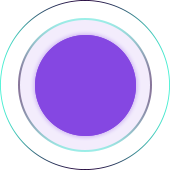
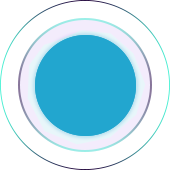
ff

Changed region(s): [[0.1765, 0.1765, 0.8235, 0.8235]]

diff --git a/assets/css/style.css b/assets/css/style.css
@@ -4124,7 +4124,7 @@ a:active {
 
 /*Color*/
 .tm-white-c {
-    color: #fff;
+    color: #c3d7f9;
 }
 
 .tm-white-c9 {
@@ -6742,7 +6742,7 @@ a:active {
 
 .tab-links li.active a {
     background-color: #0058ae;
-    color: #fff;
+    color: #c3d7f9;
 }
 
 /*Accordian*/
@@ -6780,13 +6780,14 @@ a:active {
 }
 
 .single-accordian .accordian-body {
-    color: #ffffff;
+    color: #c3d7f9;
     line-height: 30px;
     font-size: 20px;
     padding: 20px 25px;
     padding-left: 60px;
     padding-bottom: 0;
     padding-top: 23px;
+    text-align: justify;
 }
 
 .accordian-toggle {
@@ -7372,7 +7373,7 @@ a:active {
 
 .tm-single-social-btn .tm-social-btn-text {
     font-size: 20px;
-    color: #fff;
+    color: #c3d7f9;
     position: absolute;
     bottom: -60px;
     left: 50%;
@@ -7795,6 +7796,7 @@ a:active {
 
     .single-accordian .accordian-body {
         padding-top: 18px;
+        text-align: justify;
     }
 
     .single-accordian:not(:last-child) {
@@ -8466,7 +8468,7 @@ a:active {
 
 .tm-gr-text {
     font-size: 20px;
-    color: #fff;
+    color: #c3d7f9;
     padding-left: 25px;
 }
 
@@ -9194,15 +9196,6 @@ body.tm-purple-color {
     color: #ffffff;
 }
 
-.tm-purple-color .tm-video-button span {
-    -webkit-box-shadow: 0 0 0 11px #8547e2;
-    box-shadow: 0 0 0 8px #8547e2;
-}
-
-.tm-purple-color .tm-video-button i {
-    color: #8547e2;
-}
-
 .tm-purple-color .tm-ocher-work {
     background-image:linear-gradient(#0f2962, #0a1f4d);
 }
@@ -9302,10 +9295,10 @@ body.tm-purple-color {
 .tm-purple-color .tm-member-card-in:before,
 .tm-purple-color .tm-member-card-in:after {
     content: '';
-    background: -webkit-gradient(linear, left top, left bottom, from(transparent), to(#8547e2));
-    background: -webkit-linear-gradient(transparent, #8547e2);
-    background: -o-linear-gradient(transparent, #8547e2);
-    background: linear-gradient(transparent, #8547e2);
+    background: -webkit-gradient(linear, left top, left bottom, from(transparent), to(#46f2d4));
+    background: -webkit-linear-gradient(transparent, #46f2d4);
+    background: -o-linear-gradient(transparent, #46f2d4);
+    background: linear-gradient(transparent, #46f2d4);
     position: absolute;
     top: 0;
     height: 100%;
@@ -9368,7 +9361,7 @@ body.tm-purple-color {
 }
 
 .tm-purple-color .tm-token-wrap .tm-token-heading {
-    color: #c3d7f9;
+    color: #46f2d4;
 }
 
 .tm-purple-color .tm-token-list {
@@ -9385,17 +9378,17 @@ body.tm-purple-color {
 }
 
 .tm-purple-color .tm-bar-circle:before {
-    background-color: #8547e2;
+    background-color: #46f2d4;
 }
 
 .tm-purple-color .tm-bar-circle:after {
-    background: #8547e2;
+    background: #46f2d4;
     z-index: 1;
 }
 
 .tm-purple-color .tab-links li a {
     background-color: #080342;
-    color: #ffffff;
+    color: #c3d7f9;
 }
 
 .tm-purple-color .tab-links {
@@ -9403,8 +9396,8 @@ body.tm-purple-color {
 }
 
 .tm-purple-color .tab-links li.active a {
-    background-color: #8547e2;
-    color: #fff;
+    background-color: #46f2d4;
+    color: #013162;
 }
 
 .tm-purple-color .tab-content .tm-light-blue-c {
@@ -9412,18 +9405,18 @@ body.tm-purple-color {
 }
 
 .tm-purple-color .accordian-toggle {
-    border: 2px solid #8547e2;
+    border: 2px solid #46f2d4;
     color: #013162;
     background-color: #1e0139;
 }
 
 .tm-purple-color .accordian-toggle i {
-    background-color: #8547e2;
+    background-color: #46f2d4;
     color: #1e0139;
 }
 
 .tm-purple-color .accordian-head:before {
-    background: #8547e2;
+    background: #46f2d4;
     left: 13.5px;
     top: -702px;
 }
@@ -9434,19 +9427,19 @@ body.tm-purple-color {
 
 .tm-purple-color .tm-copyright {
     text-align: center;
-    border-top: 1px dotted #381363;
+    border-top: 1px dotted #0d6052;
 }
 
 .tm-purple-color .tm-socil-bar:after {
-    background-color: #8547e2;
+    background-color: #46f2d4;
 }
 
 .tm-purple-color .tm-socil-bar:before {
-    background-color: #8547e2;
+    background-color: #46f2d4;
 }
 
 .tm-purple-color .tm-socil-bar {
-    border: 1px dashed #8547e2;
+    border: 1px dashed #46f2d4;
 }
 
 .tm-purple-color .tm-email-btn span:before {
@@ -9511,11 +9504,11 @@ body.tm-purple-color {
 .tm-purple-color .accordian-head.active .accordian-toggle:after {
     -webkit-animation: tm-arrow-animation3 2.5s infinite;
     animation: tm-arrow-animation3 2.5s infinite;
-    border: 1px solid #8547e2;
+    border: 1px solid #46f2d4;
 }
 
 .tm-purple-color .tm-faq-wrap>.tm-light-blue-c {
-    color: #c3d7f9;
+    color: #46f2d4;
 }
 
 .tm-purple-color .tm-roadmap-wrap .tm-section-heading.tm-style2 h2 {
@@ -9538,7 +9531,7 @@ body.tm-purple-color {
 .tm-purple-color .green-slider-nav .tm-green-year,
 .tm-purple-color .green-slider-nav .slick-prev.slick-arrow:before,
 .tm-purple-color .green-slider-nav .slick-next.slick-arrow:before {
-    color: #fff;
+    color: #c3d7f9;
 }
 
 .tm-purple-color .tm-green-roadmap-text:before,
@@ -9598,35 +9591,35 @@ body.tm-purple-color {
 
 @-webkit-keyframes tm-arrow-animation3 {
     0% {
-        -webkit-box-shadow: 0 0 0 0 #8547e2;
-        box-shadow: 0 0 0 0 #8547e2;
+        -webkit-box-shadow: 0 0 0 0 #46f2d4;
+        box-shadow: 0 0 0 0 #46f2d4;
     }
 
     50% {
-        -webkit-box-shadow: 0 0 0 7px #8547e2;
-        box-shadow: 0 0 0 7px #8547e2;
+        -webkit-box-shadow: 0 0 0 7px #46f2d4;
+        box-shadow: 0 0 0 7px #46f2d4;
     }
 
     100% {
-        -webkit-box-shadow: 0 0 0 0 #8547e2;
-        box-shadow: 0 0 0 0 #8547e2;
+        -webkit-box-shadow: 0 0 0 0 #46f2d4;
+        box-shadow: 0 0 0 0 #46f2d4;
     }
 }
 
 @keyframes tm-arrow-animation3 {
     0% {
-        -webkit-box-shadow: 0 0 0 0 #8547e2;
-        box-shadow: 0 0 0 0 #8547e2;
+        -webkit-box-shadow: 0 0 0 0 #46f2d4;
+        box-shadow: 0 0 0 0 #46f2d4;
     }
 
     50% {
-        -webkit-box-shadow: 0 0 0 7px #8547e2;
-        box-shadow: 0 0 0 7px #8547e2;
+        -webkit-box-shadow: 0 0 0 7px #46f2d4;
+        box-shadow: 0 0 0 7px #46f2d4;
     }
 
     100% {
-        -webkit-box-shadow: 0 0 0 0 #8547e2;
-        box-shadow: 0 0 0 0 #8547e2;
+        -webkit-box-shadow: 0 0 0 0 #46f2d4;
+        box-shadow: 0 0 0 0 #46f2d4;
     }
 }
 
@@ -10318,7 +10311,7 @@ body.tm-orange-color {
 }
 
 .tm-orange-color .tm-single-social-btn .tm-social-btn-text {
-    color: #afb6e2;
+    color: #c3d7f9;
 }
 
 .tm-orange-color .tm-form-field label {
@@ -10344,7 +10337,7 @@ body.tm-orange-color {
 }
 
 .tm-orange-color .tm-countdown-heading.tm-white-c {
-    color: #ffffff;
+    color: #46f2d4;
 }
 
 .tm-orange-color .tm-hero-title.tm-white-c {

diff --git a/index.html b/index.html
@@ -84,8 +84,8 @@
                         <h2 class="tm-hero-sub-title tm-white-c tm-f24 tm-m0 tm-lh36 tm-md-f18 tm-md-lh26">Expertly engineered Ai automated bots <br> That specialized in Margin, Future and <br> Martingales trading</h2>
                         <div class="empty-space col-xs-b25"></div>
                         <div class="tm-btn-group">
-                            <a href="https://m.ave.ai/token/0x01c07a1456fb408c88eb1a657cb1a12f0c21632f-bsc" class="tm-btn tm-style1">Buy Token</a>
-                            <a href="" class="tm-btn tm-style1 tm-with-border">Token Info</a>
+                            <a href="https://pancakeswap.finance/add/bnb/0x01C07a1456fB408C88Eb1a657Cb1A12F0c21632F" class="tm-btn tm-style1">Buy Token</a>
+                            <a href="https://pancakeswap.finance/info/v3/tokens/0x01C07a1456fB408C88Eb1a657Cb1A12F0c21632F" class="tm-btn tm-style1 tm-with-border">Token Info</a>
                         </div>
                     </div>
                 </div>
